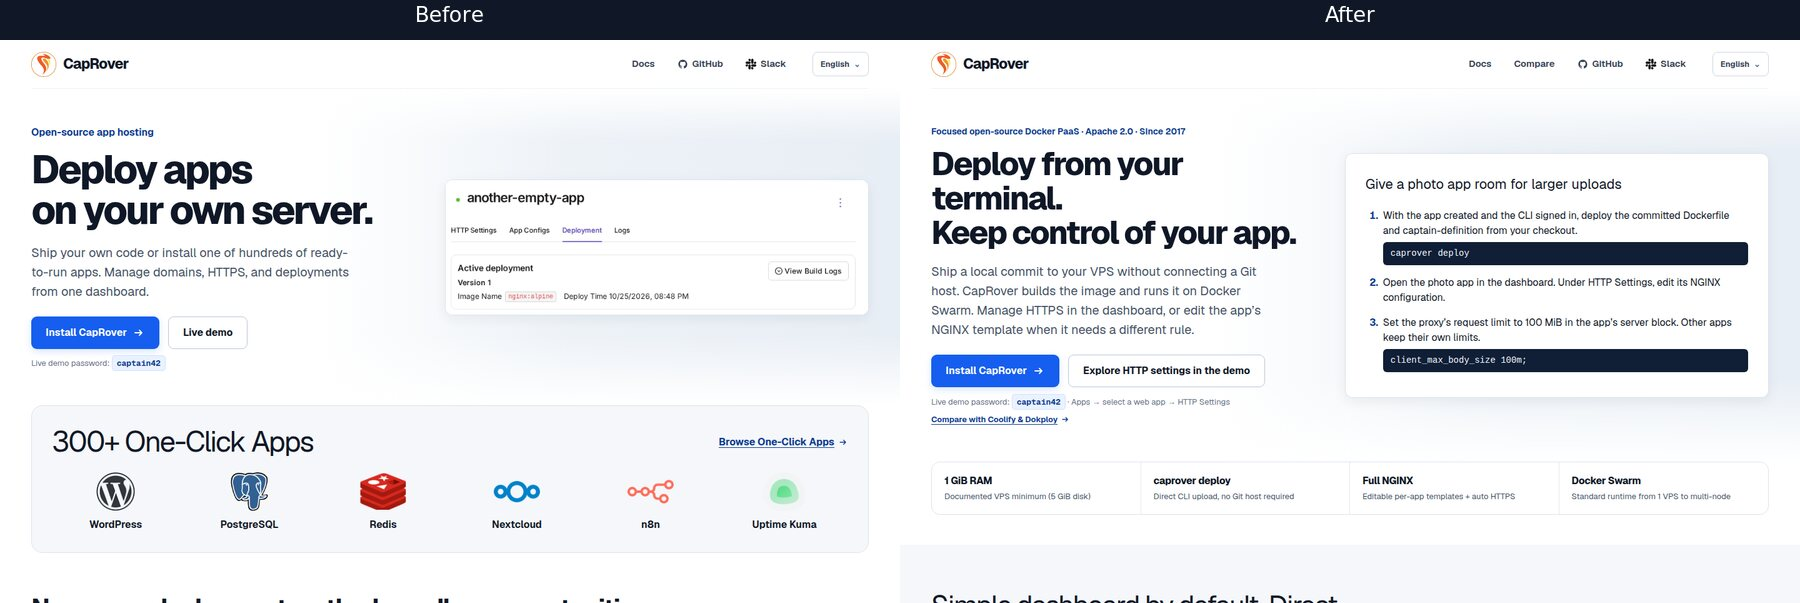
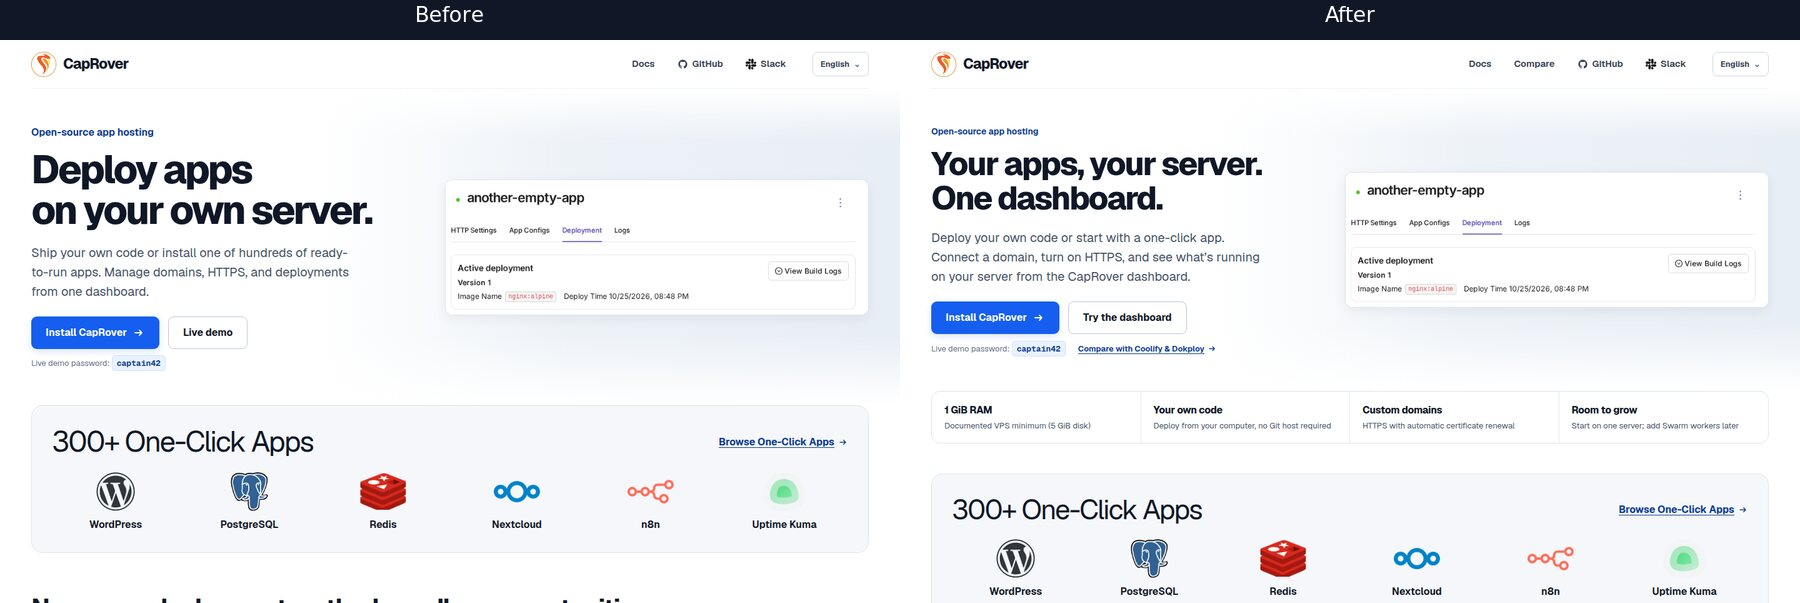
Lead with the dashboard and one-click apps

diff --git a/marketing-site/app/home-page.tsx b/marketing-site/app/home-page.tsx
@@ -93,22 +93,25 @@ function SlackIcon() {
   );
 }
 
-function AppWalkthrough({ messages }: { messages: HomeMessages["workflow"] }) {
+function LiveDeployment({ messages }: { messages: HomeMessages["hero"] }) {
   return (
-    <section className="app-walkthrough" aria-labelledby="walkthrough-title">
-      <h2 id="walkthrough-title">{messages.title}</h2>
-      <ol>
-        <li>
-          {messages.deploy}
-          <code>caprover deploy</code>
-        </li>
-        <li>{messages.openApp}</li>
-        <li>
-          {messages.uploadLimit}
-          <code>client_max_body_size 100m;</code>
-        </li>
-      </ol>
-    </section>
+    <figure className="live-deployment">
+      <picture>
+        <source
+          media="(max-width: 660px)"
+          srcSet={asset("/caprover-active-deployment-mobile.webp")}
+          width={506}
+          height={256}
+        />
+        <img
+          src={asset("/caprover-active-deployment.webp")}
+          width={804}
+          height={256}
+          alt={messages.deploymentAlt}
+          fetchPriority="high"
+        />
+      </picture>
+    </figure>
   );
 }
 
@@ -380,18 +383,18 @@ export function HomePage({ locale = DEFAULT_LOCALE }: { locale?: Locale }) {
           <div className="hero-meta">
             <p className="demo-access">
               {messages.hero.demoPasswordLabel} <code>captain42</code>
-              {" · "}
-              {messages.hero.demoPath}
             </p>
             <a className="hero-compare-link" href={compareHub}>
               {messages.hero.compareLink} <ArrowIcon />
             </a>
           </div>
         </div>
-        <AppWalkthrough messages={messages.workflow} />
+        <LiveDeployment messages={messages.hero} />
       </section>
 
       <CapabilityStrip messages={messages} />
+
+      <OneClickApps messages={messages.oneClick} />
 
       <section className="app-controls" aria-labelledby="app-controls-title">
         <div className="shell">
@@ -463,8 +466,6 @@ export function HomePage({ locale = DEFAULT_LOCALE }: { locale?: Locale }) {
           </figure>
         </div>
       </section>
-
-      <OneClickApps messages={messages.oneClick} />
 
       <section
         className="compare-callout shell"

diff --git a/marketing-site/app/globals.css b/marketing-site/app/globals.css
@@ -357,44 +357,19 @@
   width: auto;
 }
 
-.app-walkthrough {
+.live-deployment {
   margin: 0;
-  padding: clamp(18px, 3vw, 32px);
   border: 1px solid var(--surface-border);
   border-radius: 12px;
   background: #fff;
   box-shadow: 0 6px 20px #10182810;
 }
 
-.app-walkthrough h2 {
-  margin: 0;
-  font-size: 22px;
-}
-
-.app-walkthrough ol {
-  margin: 14px 0 0;
-  padding-inline-start: 1.5em;
-  list-style: decimal;
-}
-
-.app-walkthrough li {
-  padding: 8px 0 8px 4px;
-  line-height: 1.5;
-}
-
-.app-walkthrough li::marker {
-  color: var(--blue-dark);
-  font-weight: 700;
-}
-
-.app-walkthrough code {
+.live-deployment img {
   display: block;
-  margin-top: 6px;
-  padding: 8px 12px;
-  border-radius: 6px;
-  background: #101e36;
-  color: #eef4ff;
-  font-size: 14px;
+  width: 100%;
+  height: auto;
+  border-radius: 11px;
 }
 
 .catalog-link {
@@ -628,7 +603,7 @@
     mask-image: none;
   }
 
-  .app-walkthrough {
+  .live-deployment {
     max-width: 720px;
   }
 }
